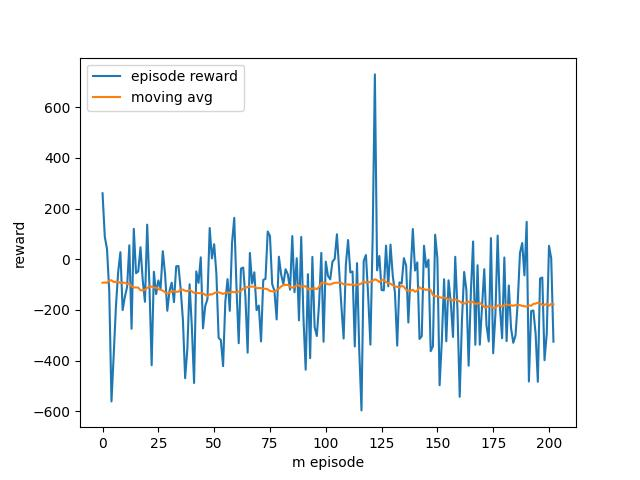
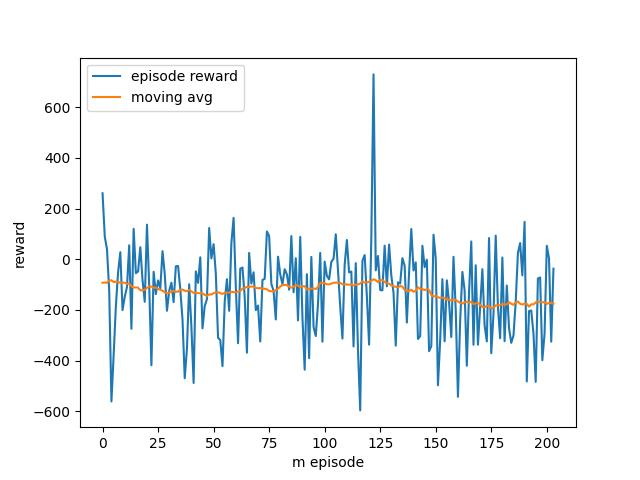
新增state空间:m, 及动力学计算，用于体现燃料燃烧对火箭质量的影响

diff --git a/rocket.py b/rocket.py
@@ -38,6 +38,13 @@ class Rocket(object):
         self.I = 1/12*self.H*self.H  # Moment of inertia
         self.dt = 0.05
 
+        # 不同推力->消耗燃料->质量变化对应值
+        self.mass_consumption = {
+            0.2 * self.g: 0.00021608,
+            1.0 * self.g: 0.00107996,
+            2.0 * self.g: 0.00215991
+        }
+
         self.world_x_min = -300  # meters
         self.world_x_max = 300
         self.world_y_min = -30
@@ -51,6 +58,7 @@ class Rocket(object):
 
         self.already_landing = False
         self.already_crash = False
+        self.already_fuel_empty = False
         self.max_steps = max_steps
 
         # viewport height x width (pixels)
@@ -62,7 +70,8 @@ class Rocket(object):
         self.state = self.create_random_state()
         self.action_table = self.create_action_table()
 
-        self.state_dims = 8
+        # 由于新增质量状态 m，state维度 8->9
+        self.state_dims = 9
         self.action_dims = len(self.action_table)
 
         if path_to_bg_img is None:
@@ -129,7 +138,9 @@ class Rocket(object):
             'x': x, 'y': y, 'vx': 0, 'vy': vy,
             'theta': theta, 'vtheta': 0,
             'phi': 0, 'f': 0,
-            't': 0, 'a_': 0
+            't': 0, 'a_': 0,
+            # 新增rocket质量状态 m
+            'm': 1.0
         }
 
         return state
@@ -177,6 +188,12 @@ class Rocket(object):
             return True if y <= 0 + self.H / 2.0 and v < 15.0 and abs(x) < self.target_r \
                            and abs(theta) < 10/180*np.pi and abs(vtheta) < 10/180*np.pi else False
 
+    def check_fuel_empty(self, state):
+        if state['m'] <= 0.5770925:
+            return True
+        else:
+            return False
+
     def calculate_reward(self, state):
 
         x_range = self.world_x_max - self.world_x_min
@@ -219,6 +236,7 @@ class Rocket(object):
         x, y, vx, vy = self.state['x'], self.state['y'], self.state['vx'], self.state['vy']
         theta, vtheta = self.state['theta'], self.state['vtheta']
         phi = self.state['phi']
+        m = self.state['m']
 
         f, vphi = self.action_table[action]
 
@@ -228,8 +246,15 @@ class Rocket(object):
         fy = ft*np.sin(theta) + fr*np.cos(theta)
 
         rho = 1 / (125/(self.g/2.0))**0.5  # suppose after 125 m free fall, then air resistance = mg
-        ax, ay = fx-rho*vx, fy-self.g-rho*vy
-        atheta = ft*self.H/2 / self.I
+        # 添加质量m变化，影响动力学模型
+        # ax, ay = fx-rho*vx, fy-self.g-rho*vy
+        ax = (fx - rho * vx) / m
+        ay = (fy - m * self.g - rho * vy) / m
+
+        # 由于质量变化引起转动惯量I变化，缩放因数恰好就是m，因为m初始值为1，当前值<1
+        mass_ratio = m
+        atheta = ft*self.H/2 / (self.I * mass_ratio)
+
 
         # update agent
         if self.already_landing:
@@ -248,19 +273,23 @@ class Rocket(object):
         phi = max(phi, -20/180*3.1415926)
         phi = min(phi, 20/180*3.1415926)
 
+        m_new = m - self.mass_consumption[f]
+
         self.state = {
             'x': x_new, 'y': y_new, 'vx': vx_new, 'vy': vy_new,
             'theta': theta_new, 'vtheta': vtheta_new,
             'phi': phi, 'f': f,
-            't': self.step_id, 'action_': action
+            't': self.step_id, 'action_': action,
+            'm': m_new
         }
         self.state_buffer.append(self.state)
 
         self.already_landing = self.check_landing_success(self.state)
         self.already_crash = self.check_crash(self.state)
+        self.already_fuel_empty = self.check_fuel_empty(self.state)
         reward = self.calculate_reward(self.state)
 
-        if self.already_crash or self.already_landing:
+        if self.already_crash or self.already_landing or self.already_fuel_empty:
             done = True
         else:
             done = False
@@ -270,7 +299,8 @@ class Rocket(object):
     def flatten(self, state):
         x = [state['x'], state['y'], state['vx'], state['vy'],
              state['theta'], state['vtheta'], state['t'],
-             state['phi']]
+             state['phi'],
+             state['m']]
         return np.array(x, dtype=np.float32)/100.
 
     def render(self, window_name='env', wait_time=1,

diff --git a/example_train_.py b/example_train_.py
@@ -93,6 +93,8 @@ if __name__ == '__main__':
                 net.update_ac(net, rewards, log_probs, values, masks, Qval, gamma=0.999)
                 break
 
+            # print(f"step_id: {step_id}, state: {state}")
+
         REWARDS.append(np.sum(rewards))
         print('episode id: %d, episode reward: %.3f'
               % (episode_id, np.sum(rewards)))
